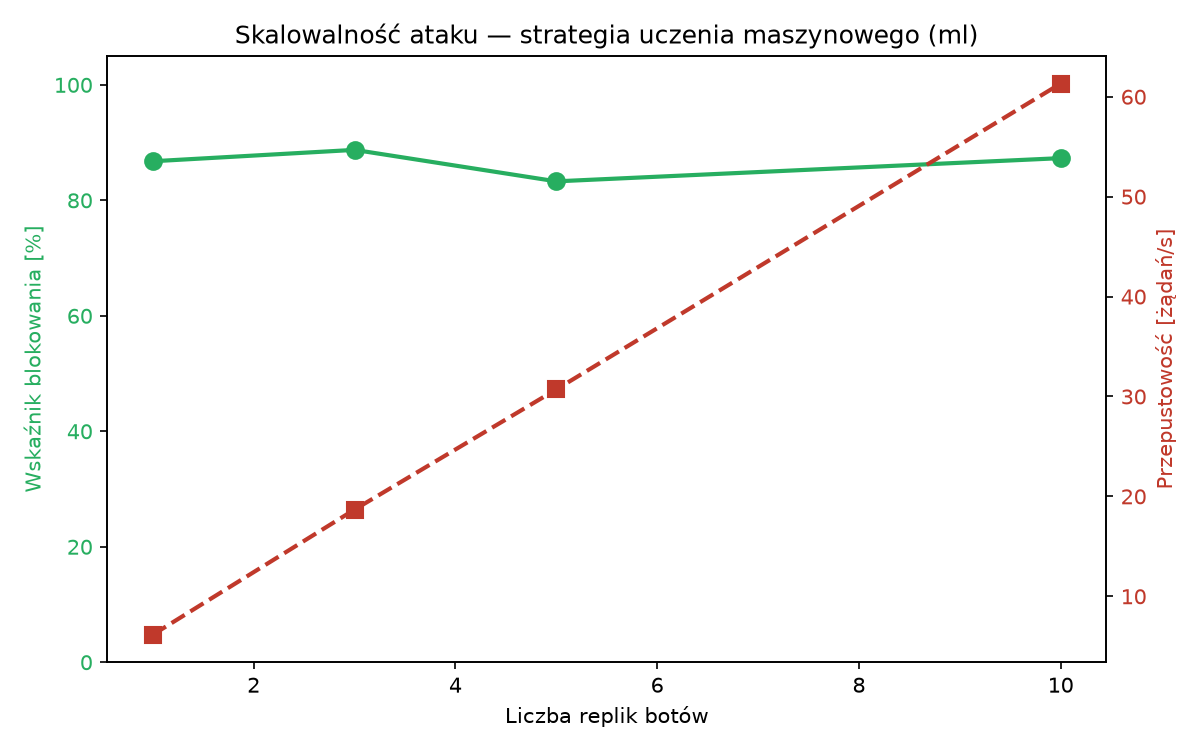
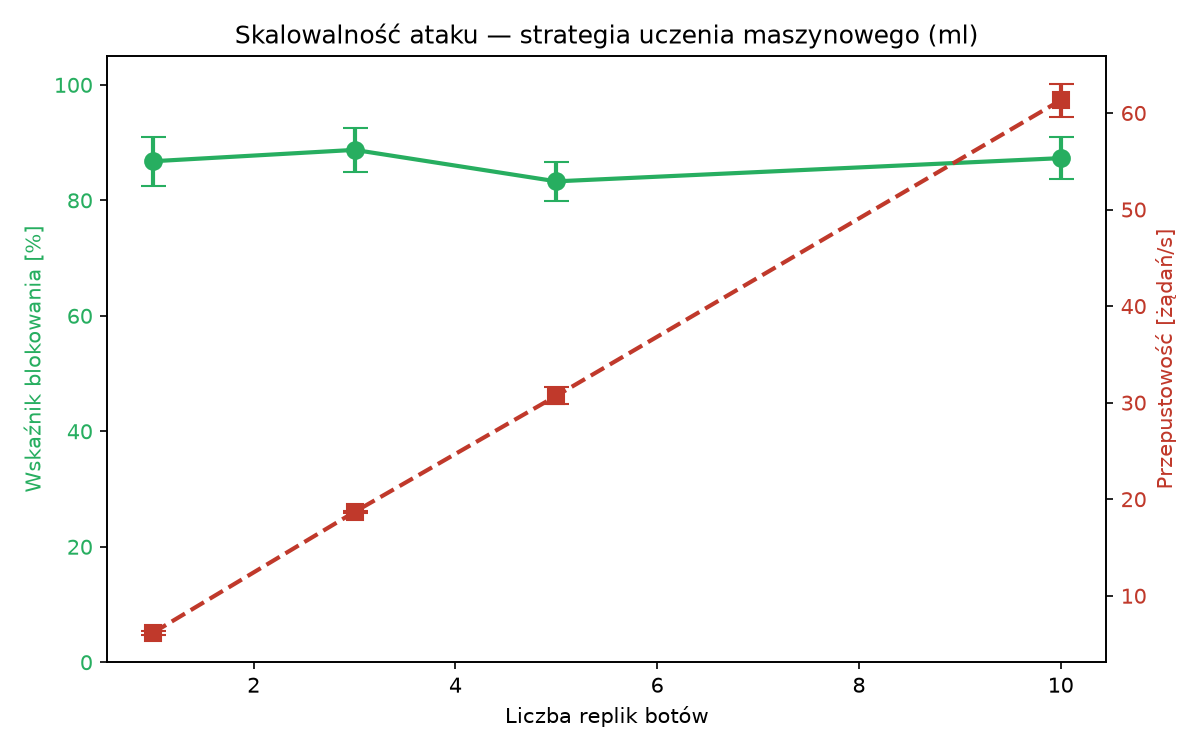
first changes after review

diff --git a/scripts/charts.py b/scripts/charts.py
@@ -2,9 +2,11 @@
 """Generuje wykresy do pracy dyplomowej na podstawie results/results.csv."""
 import csv
 import os
+import statistics
 import matplotlib
 matplotlib.use("Agg")
 import matplotlib.pyplot as plt
+from matplotlib.ticker import FuncFormatter
 
 HERE = os.path.dirname(os.path.dirname(os.path.abspath(__file__)))
 CSV = os.path.join(HERE, "results", "results.csv")
@@ -28,6 +30,25 @@ def f(x):
     except (ValueError, TypeError):
         return 0.0
 
+
+runs = {}
+with open(os.path.join(HERE, "results", "runs_raw.csv")) as fh:
+    for r in csv.DictReader(fh):
+        runs.setdefault((r["strategy"], int(r["bots"])), []).append(r)
+
+
+def sd(r, col, scale=1.0):
+    """Odchylenie standardowe z próby dla konfiguracji wiersza r (runs_raw.csv)."""
+    return statistics.stdev(f(x[col]) * scale for x in runs[(r["strategy"], int(r["bots"]))])
+
+
+def pl(v, decimals):
+    return f"{v:.{decimals}f}".replace(".", ",")
+
+
+comma = FuncFormatter(lambda v, _: f"{v:g}".replace(".", ","))
+ERR = dict(capsize=6, ecolor="#2c3e50", elinewidth=1.2)
+
 # Seria 1: porównanie strategii przy 3 botach
 comp = [r for r in rows if int(r["bots"]) == 3]
 comp_order = ["rate_limit", "rules", "ml", "llm"]
@@ -36,38 +57,43 @@ comp = sorted(comp, key=lambda r: comp_order.index(r["strategy"]) if r["strategy
 # --- Wykres 1: wskaźnik blokowania wg strategii ---
 labels = [STRAT_PL.get(r["strategy"], r["strategy"]) for r in comp]
 block = [f(r["block_rate"]) * 100 for r in comp]
+block_sd = [sd(r, "block_rate", 100) for r in comp]
 plt.figure(figsize=(8, 5))
-bars = plt.bar(labels, block, color=["#7f8c8d", "#2980b9", "#27ae60", "#8e44ad"])
+bars = plt.bar(labels, block, yerr=block_sd, error_kw=ERR, color=["#7f8c8d", "#2980b9", "#27ae60", "#8e44ad"])
 plt.ylabel("Wskaźnik blokowania [%]")
-plt.title("Skuteczność detekcji botów wg strategii ochrony (3 boty)")
-plt.ylim(0, 105)
-for b, v in zip(bars, block):
-    plt.text(b.get_x() + b.get_width() / 2, v + 1.5, f"{v:.1f}%", ha="center", fontweight="bold")
+plt.title("Skuteczność detekcji botów wg strategii ochrony (3 repliki botów)")
+plt.ylim(0, 108)
+for b, v, e in zip(bars, block, block_sd):
+    plt.text(b.get_x() + b.get_width() / 2, v + e + 1.5, f"{pl(v, 1)}%", ha="center", fontweight="bold")
 plt.tight_layout()
 plt.savefig(os.path.join(OUT, "fig1_block_rate.png"), dpi=150)
 plt.close()
 
 # --- Wykres 2: opóźnienie detekcji (skala log) wg strategii ---
 lat = [f(r["avg_lat_ms"]) for r in comp]
+lat_sd = [sd(r, "avg_lat_ms") for r in comp]
 plt.figure(figsize=(8, 5))
-bars = plt.bar(labels, lat, color=["#7f8c8d", "#2980b9", "#27ae60", "#8e44ad"])
+bars = plt.bar(labels, lat, yerr=lat_sd, error_kw=ERR, color=["#7f8c8d", "#2980b9", "#27ae60", "#8e44ad"])
 plt.ylabel("Średnie opóźnienie detekcji [ms] (skala log.)")
-plt.title("Opóźnienie detekcji wg strategii ochrony (3 boty)")
+plt.title("Opóźnienie detekcji wg strategii ochrony (3 repliki botów)")
 plt.yscale("log")
-for b, v in zip(bars, lat):
-    plt.text(b.get_x() + b.get_width() / 2, v * 1.1, f"{v:.2f} ms", ha="center", fontweight="bold")
+plt.ylim(top=max(v + e for v, e in zip(lat, lat_sd)) * 4)
+for b, v, e in zip(bars, lat, lat_sd):
+    plt.text(b.get_x() + b.get_width() / 2, (v + e) * 1.15, f"{pl(v, 2)} ms", ha="center", fontweight="bold")
 plt.tight_layout()
 plt.savefig(os.path.join(OUT, "fig2_latency.png"), dpi=150)
 plt.close()
 
 # --- Wykres 3: przepustowość wg strategii ---
 thr = [f(r["rps_total"]) for r in comp]
+thr_sd = [sd(r, "rps_total") for r in comp]
 plt.figure(figsize=(8, 5))
-bars = plt.bar(labels, thr, color=["#7f8c8d", "#2980b9", "#27ae60", "#8e44ad"])
+bars = plt.bar(labels, thr, yerr=thr_sd, error_kw=ERR, color=["#7f8c8d", "#2980b9", "#27ae60", "#8e44ad"])
 plt.ylabel("Przepustowość [żądań/s]")
-plt.title("Przepustowość warstwy ochronnej wg strategii (3 boty)")
-for b, v in zip(bars, thr):
-    plt.text(b.get_x() + b.get_width() / 2, v + 0.3, f"{v:.1f}", ha="center", fontweight="bold")
+plt.title("Przepustowość warstwy ochronnej wg strategii (3 repliki botów)")
+plt.gca().yaxis.set_major_formatter(comma)
+for b, v, e in zip(bars, thr, thr_sd):
+    plt.text(b.get_x() + b.get_width() / 2, v + e + 0.3, pl(v, 1), ha="center", fontweight="bold")
 plt.tight_layout()
 plt.savefig(os.path.join(OUT, "fig3_throughput.png"), dpi=150)
 plt.close()
@@ -78,17 +104,20 @@ bots = [int(r["bots"]) for r in scal]
 s_block = [f(r["block_rate"]) * 100 for r in scal]
 s_thr = [f(r["rps_total"]) for r in scal]
 s_lat = [f(r["avg_lat_ms"]) for r in scal]
+s_block_sd = [sd(r, "block_rate", 100) for r in scal]
+s_thr_sd = [sd(r, "rps_total") for r in scal]
+s_lat_sd = [sd(r, "avg_lat_ms") for r in scal]
 
 # --- Wykres 4: skalowalność — blokowanie i przepustowość vs liczba botów ---
 fig, ax1 = plt.subplots(figsize=(8, 5))
 ax1.set_xlabel("Liczba replik botów")
 ax1.set_ylabel("Wskaźnik blokowania [%]", color="#27ae60")
-ax1.plot(bots, s_block, "o-", color="#27ae60", linewidth=2, markersize=8, label="Wskaźnik blokowania")
+ax1.errorbar(bots, s_block, yerr=s_block_sd, fmt="o-", color="#27ae60", capsize=6, linewidth=2, markersize=8, label="Wskaźnik blokowania")
 ax1.set_ylim(0, 105)
 ax1.tick_params(axis="y", labelcolor="#27ae60")
 ax2 = ax1.twinx()
 ax2.set_ylabel("Przepustowość [żądań/s]", color="#c0392b")
-ax2.plot(bots, s_thr, "s--", color="#c0392b", linewidth=2, markersize=8, label="Przepustowość")
+ax2.errorbar(bots, s_thr, yerr=s_thr_sd, fmt="s--", color="#c0392b", capsize=6, linewidth=2, markersize=8, label="Przepustowość")
 ax2.tick_params(axis="y", labelcolor="#c0392b")
 plt.title("Skalowalność ataku — strategia uczenia maszynowego (ml)")
 fig.tight_layout()
@@ -97,12 +126,13 @@ plt.close()
 
 # --- Wykres 5: skalowalność — opóźnienie vs liczba botów ---
 plt.figure(figsize=(8, 5))
-plt.plot(bots, s_lat, "o-", color="#2980b9", linewidth=2, markersize=8)
+plt.errorbar(bots, s_lat, yerr=s_lat_sd, fmt="o-", color="#2980b9", capsize=6, linewidth=2, markersize=8)
 plt.xlabel("Liczba replik botów")
 plt.ylabel("Średnie opóźnienie detekcji [ms]")
 plt.title("Opóźnienie detekcji w funkcji intensywności ataku (ml)")
+plt.gca().yaxis.set_major_formatter(comma)
 for x, y in zip(bots, s_lat):
-    plt.text(x, y, f" {y:.2f} ms", va="bottom")
+    plt.text(x, y, f"  {pl(y, 2)} ms", va="bottom")
 plt.tight_layout()
 plt.savefig(os.path.join(OUT, "fig5_scalability_latency.png"), dpi=150)
 plt.close()

diff --git a/scripts/tables.py b/scripts/tables.py
@@ -1,11 +1,24 @@
 #!/usr/bin/env python3
 """Renderuje tabele pracy jako grafiki -> results/table_*.png"""
+import csv
 import os
+import statistics
 import matplotlib
 matplotlib.use("Agg")
 import matplotlib.pyplot as plt
 
 OUT = os.path.join(os.path.dirname(os.path.dirname(os.path.abspath(__file__))), "results")
+
+runs = {}
+with open(os.path.join(OUT, "runs_raw.csv")) as fh:
+    for r in csv.DictReader(fh):
+        runs.setdefault((r["strategy"], int(r["bots"])), []).append(r)
+
+
+def pm(strategy, bots, col, decimals, scale=1.0):
+    """Średnia ± odchylenie standardowe z próby, z przecinkiem dziesiętnym."""
+    x = [float(r[col]) * scale for r in runs[(strategy, bots)]]
+    return f"{statistics.mean(x):.{decimals}f} ± {statistics.stdev(x):.{decimals}f}".replace(".", ",")
 
 HEADER = "#2c3e50"
 ROW_A = "#f4f6f7"
@@ -34,7 +47,7 @@ def render(filename, columns, rows, title, col_widths=None):
         if r == 0:
             cell.set_facecolor(HEADER)
             cell.set_text_props(color="white", fontweight="bold")
-            cell.set_height(cell.get_height() * 1.15)
+            cell.set_height(cell.get_height() * 1.6)
         else:
             cell.set_facecolor(ROW_A if r % 2 else ROW_B)
 
@@ -63,29 +76,33 @@ render(
 )
 
 # Tabela 5.1 — porównanie strategii (3 boty)
+STRATEGIES = [
+    ("rate_limit", "Ograniczanie liczby zapytań", 1, 2),
+    ("rules", "Detekcja heurystyczna", 1, 2),
+    ("ml", "Uczenie maszynowe", 1, 2),
+    ("llm", "Model językowy (LLM)", 2, 1),
+]
 render(
     "table_5_1.png",
-    ["Strategia", "Zapytania", "Zablokowane", "Wskaźnik\nblokowania", "Przepustowość\n[żądań/s]", "Średnie\nopóźnienie [ms]"],
+    ["Strategia", "Zapytania", "Zablokowane", "Wskaźnik\nblokowania [%]", "Przepustowość\n[żądań/s]", "Średnie\nopóźnienie [ms]"],
     [
-        ["Ograniczanie liczby zapytań", "2677", "2060", "77,9%", "19,0", "3,05"],
-        ["Detekcja heurystyczna", "1686", "1566", "92,9%", "18,4", "2,36"],
-        ["Uczenie maszynowe", "1701", "1509", "88,7%", "18,7", "4,56"],
-        ["Model językowy (LLM)", "321", "0", "0,0%", "2,66", "9664,59"],
+        [name, pm(s, 3, "total", 0), pm(s, 3, "blocked", 0), pm(s, 3, "block_rate", 1, 100),
+         pm(s, 3, "rps_total", thr_dec), pm(s, 3, "avg_lat_ms", lat_dec)]
+        for s, name, thr_dec, lat_dec in STRATEGIES
     ],
-    "Tabela 5.1  Porównanie strategii ochrony przy stałej liczbie trzech replik botów",
-    col_widths=[0.26, 0.13, 0.14, 0.15, 0.16, 0.16],
+    "Tabela 5.1  Porównanie strategii ochrony przy stałej liczbie trzech replik botów\n(średnia ± odchylenie standardowe, n = 3)",
+    col_widths=[0.24, 0.13, 0.13, 0.16, 0.16, 0.18],
 )
 
 # Tabela 5.2 — skalowalność (ml)
 render(
     "table_5_2.png",
-    ["Repliki botów", "Zapytania", "Wskaźnik\nblokowania", "Przepustowość\n[żądań/s]", "Średnie\nopóźnienie [ms]"],
+    ["Repliki botów", "Zapytania", "Wskaźnik\nblokowania [%]", "Przepustowość\n[żądań/s]", "Średnie\nopóźnienie [ms]"],
     [
-        ["1", "925", "86,8%", "6,2", "3,71"],
-        ["3", "1701", "88,7%", "18,7", "4,56"],
-        ["5", "2887", "83,3%", "30,7", "4,90"],
-        ["10", "5721", "87,3%", "61,3", "4,57"],
+        [str(b), pm("ml", b, "total", 0), pm("ml", b, "block_rate", 1, 100),
+         pm("ml", b, "rps_total", 1), pm("ml", b, "avg_lat_ms", 2)]
+        for b in (1, 3, 5, 10)
     ],
-    "Tabela 5.2  Skalowalność ataku dla strategii uczenia maszynowego",
+    "Tabela 5.2  Skalowalność ataku dla strategii uczenia maszynowego\n(średnia ± odchylenie standardowe, n = 3)",
     col_widths=[0.2, 0.2, 0.2, 0.2, 0.2],
 )
